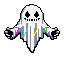
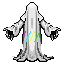
T-166 second pass built; gbasprite.py prefers a PNG over an old draft of the same name

diff --git a/tools/gbasprite.py b/tools/gbasprite.py
@@ -94,6 +94,9 @@ def rich_src(ours, kind):
     ours = GBA_NAME.get(ours, ours)
     hits = [f for f in glob.glob(os.path.join(ROOT, RICH, "%s_%s.*" % (ours.lower(), kind)))
             if not f.endswith(".txt")]
+    #  A cleaned drawing is a PNG; older drafts (PING's Gemini JPEGs) sit beside some. Glob order is not sorted, and
+    #  taking the first hit built PING from its old JPEG long after batch 2 redrew it (found by T-166).
+    hits.sort(key=lambda f: (not f.endswith(".png"), f))
     return hits[0] if hits else None
 
 def place_rich(path, type_rgb, shared=None):

diff --git a/docs/TODO.md b/docs/TODO.md
@@ -64,7 +64,7 @@ was one `git log -S` away.*
 
 | | what | where | from |
 |---|---|---|---|
-| **T-166** | **Every back view is checked to be a back** (*asked 2026-09-18*). **Several redrawn backs are front-like — the model turns a rear view to face the camera, or draws the same side view twice** — *flagged on the sheets so far: SENTRY, RAMROD, TRACER, STARR (following its concept), LATENCY, LULL, NOZZLE, STUB, HANDLER; and batch 12's COLDREAD, HAUNTPROC and TRACKER; batch 13's MULTICAST; batch 14's BLINDSPOT, WHIM, HUDDLE, FIXATION, SIMMER, OMEN and BRISTLE (side-on or facing); batch 15's VIGILANCE, GRASP, IMITATION, REPAY and ILLUSION.* ***The job***: **one contact sheet of every redrawn daemon's front beside its back, read by eye, and a list of the failures** — *then each failure redrawn with batch 7's rear wording ("seen from directly behind, no face visible, back of the head") and a face-and-eyes negative, several seeds, and rebuilt.* *A check a tool can make first: a back whose pixels correlate too closely with its own front (a mirrored or duplicated view) is suspect.* ***Closes when every back on the sheet reads as the creature from behind, and the list is empty.*** ***AUDITED AND A FIRST PASS DRAFTED 2026-09-19*** (*`gfx/drafts/t166/`*): **the audit (`audit_*.png`, `similarity.txt`) found 67 front-like backs, not the 25 listed** — *the symmetric daemons (CLUSTER, LOCUS, BEACON, PULSAR, the jellyfish, dragonflies, crabs) are right to match and are left alone.* **All 67 redrawn back-only, three seeds each (201 drafts); 21 are good rear views of the same creature (`picks.json`, `sheet.png`) — approved and BUILT 2026-09-19 (engine `c97d80a44`), 46 left for the second pass.** ***SECOND PASS DRAFTED 2026-09-19*** (*`second.py`, `picks2.json`, `sheet2.png`, awaiting approval*): **each described from its APPROVED front, fish, seahorses and serpents asked for a three-quarter rear view; 20 more are good** — *CHILLER, ENSEMBLE, FERRY, HAUNTPROC, INFERENCE, PING, PIPELINE, RAMROD, RESENTMENT, REVENANT, SENTINEL, SMOGSTACK, WISP, WILDFIRE, WHIM, BLINDSPOT, SEEDLING, SPAWN, FOSSILNET, GRIEVANCE.* **26 remain and are the hard core**: *the owls (COLDREAD, VIGILANCE), the seahorses (NOZZLE, JETSTREAM, TURBULENCE), most fish (BRISTLE, STUB, UPSTREAM), the deer (ILLUSION, STARR), the horses (HOTPATH, OVERDRIVE), and APATHY, BROADCAST, CRYOGEN, EMERGENCE, ESCALATE, FIXATION, GRASP, HANDLER, IMITATION, OMEN, REPAY, SIMMER, SINGULAR, AXIOMKICK* — **the model draws them facing, side-on or as a different creature however they are asked.** *The likely way through is image-to-image from the approved FRONT, mirrored, at a low denoise with a rear-view prompt — keeping the body and turning only the head away — or a hand edit that removes the face.* ***Why only 21, and what the second pass needs***: *the prompts reused each batch's FIRST description, not the redraw that was approved — so COLDREAD came back a woman, ENSEMBLE palm trees, HANDLER a blue duck, PIPELINE a humanoid. Fish, seahorses, ghosts and serpents also resist a rear view at all.* **Second pass: describe each from its APPROVED front (what is actually drawn), and for the fish and serpents accept a mirrored three-quarter view as the back, which is what the source games did.** *Six more cleaned badly and were dropped (CHILLER, INFERENCE, GRASP, REPAY, IMITATION, OMEN), and SENTINEL's new back still showed its eye.* | `gfx/daemons/*_back.png`, `tools/cleandraft.py`, `tools/contactsheet.py` | T-131 |
+| **T-166** | **Every back view is checked to be a back** (*asked 2026-09-18*). **Several redrawn backs are front-like — the model turns a rear view to face the camera, or draws the same side view twice** — *flagged on the sheets so far: SENTRY, RAMROD, TRACER, STARR (following its concept), LATENCY, LULL, NOZZLE, STUB, HANDLER; and batch 12's COLDREAD, HAUNTPROC and TRACKER; batch 13's MULTICAST; batch 14's BLINDSPOT, WHIM, HUDDLE, FIXATION, SIMMER, OMEN and BRISTLE (side-on or facing); batch 15's VIGILANCE, GRASP, IMITATION, REPAY and ILLUSION.* ***The job***: **one contact sheet of every redrawn daemon's front beside its back, read by eye, and a list of the failures** — *then each failure redrawn with batch 7's rear wording ("seen from directly behind, no face visible, back of the head") and a face-and-eyes negative, several seeds, and rebuilt.* *A check a tool can make first: a back whose pixels correlate too closely with its own front (a mirrored or duplicated view) is suspect.* ***Closes when every back on the sheet reads as the creature from behind, and the list is empty.*** ***AUDITED AND A FIRST PASS DRAFTED 2026-09-19*** (*`gfx/drafts/t166/`*): **the audit (`audit_*.png`, `similarity.txt`) found 67 front-like backs, not the 25 listed** — *the symmetric daemons (CLUSTER, LOCUS, BEACON, PULSAR, the jellyfish, dragonflies, crabs) are right to match and are left alone.* **All 67 redrawn back-only, three seeds each (201 drafts); 21 are good rear views of the same creature (`picks.json`, `sheet.png`) — approved and BUILT 2026-09-19 (engine `c97d80a44`), 46 left for the second pass.** ***SECOND PASS BUILT 2026-09-19*** (engine `1748b65c5`; *`second.py`, `picks2.json`, `sheet2.png`, approved; building it found PING's back had been made from its old Gemini JPEG since batch 2, because `gbasprite.py` took the first file its glob matched — it now prefers the PNG*): **each described from its APPROVED front, fish, seahorses and serpents asked for a three-quarter rear view; 20 more are good** — *CHILLER, ENSEMBLE, FERRY, HAUNTPROC, INFERENCE, PING, PIPELINE, RAMROD, RESENTMENT, REVENANT, SENTINEL, SMOGSTACK, WISP, WILDFIRE, WHIM, BLINDSPOT, SEEDLING, SPAWN, FOSSILNET, GRIEVANCE.* **26 remain and are the hard core**: *the owls (COLDREAD, VIGILANCE), the seahorses (NOZZLE, JETSTREAM, TURBULENCE), most fish (BRISTLE, STUB, UPSTREAM), the deer (ILLUSION, STARR), the horses (HOTPATH, OVERDRIVE), and APATHY, BROADCAST, CRYOGEN, EMERGENCE, ESCALATE, FIXATION, GRASP, HANDLER, IMITATION, OMEN, REPAY, SIMMER, SINGULAR, AXIOMKICK* — **the model draws them facing, side-on or as a different creature however they are asked.** *The likely way through is image-to-image from the approved FRONT, mirrored, at a low denoise with a rear-view prompt — keeping the body and turning only the head away — or a hand edit that removes the face.* ***Why only 21, and what the second pass needs***: *the prompts reused each batch's FIRST description, not the redraw that was approved — so COLDREAD came back a woman, ENSEMBLE palm trees, HANDLER a blue duck, PIPELINE a humanoid. Fish, seahorses, ghosts and serpents also resist a rear view at all.* **Second pass: describe each from its APPROVED front (what is actually drawn), and for the fish and serpents accept a mirrored three-quarter view as the back, which is what the source games did.** *Six more cleaned badly and were dropped (CHILLER, INFERENCE, GRASP, REPAY, IMITATION, OMEN), and SENTINEL's new back still showed its eye.* | `gfx/daemons/*_back.png`, `tools/cleandraft.py`, `tools/contactsheet.py` | T-131 |
 | **T-165** | **PIXELBYTE and SPRITEFORGE are daemons** (*asked 2026-09-18; PIXELBYTE was first noted under T-131*). **The two tools that drew this bestiary become two of its creatures** — *PIXELBYTE, the pixel-art model wrapped as a skill, and SPRITEFORGE, the tool that drives it.* ***The names are the user's and approved; everything else is open***: **which species slot each takes (a renamed vanilla species, or two of the unused slots), their type and line (a pair, or an evolution — a forge that makes the bytes), where the player meets them, and their Index entries** — *new in-game writing, so the wording is approved before it goes in, and craft rule 1 holds: the entry names the process, never the thesis.* **Drawn with the recipe they are named for.** ***SPRITEFORGE knows RECURSION*** (*decided by the user 2026-09-19*): **it is the thing that makes its own sprites** — *a forge that reads its own last output and builds on it.* ***A conflict to settle with it***: **RECURSION is S.T.A.R.R.'s signature (4.7; 5862's table), and the engine comment calls it "S.T.A.R.R.'s alone"** — *`sMovesForbiddenToCopy` only stops METRONOME, CLONE and IMPRINT from reaching it, so a second daemon learning it by level-up is mechanically fine; what changes is that the signature is shared, and 4.7 should say so, or say why SPRITEFORGE's is the same move understood differently.* | `src/data/text/species_names.h`, `src/data/pokemon/`, `gfx/daemons/` | T-131, 2.7 |
 | **T-164** | **Every overworld sprite and tile redrawn through the sprite server, in batches** (*asked 2026-09-18*). **The world art so far — buildings, ground, nature tiles, people, the player (T-52, T-61–T-85, T-105–T-129) — was generated in CODE by the `gba*`/`gen*` tools; the daemons are now drawn through ComfyUI on roverbyteseer (`spriteforge.py`, pixelbyte's model), and the world should be too.** ***The job, planned like T-131***: **a census of every overworld sheet and tileset (object events, trainer overworlds, primary and secondary tilesets, the ones already ours included), then batches in the order a player sees them, each drafted, on a contact sheet, approved, then built** — *tiles are a harder target than sprites: 8×8 cells, shared palettes per tileset, metatile layers and collision that must not move (T-125's zero-collision-change rule), and seams between tiles (engine.md trap 14).* ***Depends on T-133*** *for the daemon objects.* **First step: a trial on one building and one ground tileset, to learn whether the model can draw tileable 16×16 metatiles at all, before a plan is written.** | `graphics/object_events/`, `data/tilesets/`, `tools/spriteforge.py`, `tools/gbainterior.py` | T-131, T-133, T-125, 9.22, 9.23 |
 | ~~**T-163**~~ | ~~**MISSINGNO is an homage** (*decided by the user 2026-09-18*). **Its sprite is the original's backwards-L block of scrambled texture, but CODIFIED — made of green falling-matrix code** *rather than random tile garbage.* **It stands in `OLD_UNOWN_B` at level 80 and was left out of T-131's batches for this decision.** ***Open***: *whether the green is its type's colour or the one exception to 9.4 (a glitch that ignores the colour rule is itself an homage), its back view, and its Index entry (new writing, approved first).*~~ — ***Done 2026-09-19*** (engine `47b3c8aec`; `gfx/drafts/t163/`): **the backwards-L block, filled with columns of falling green code** — *generated by `make.py`, not drawn by the model, because it is code; fixed seeds (1996 front, 2026 back) so it rebuilds identically. Its own `graphics/pokemon/old_unown_b` and four table entries (it had shared the "??" placeholder with the other old-Unown slots). The body ramps to CORRUPT's mould and the greens stay accents, so the colour rule's one exception needed no exception. Index entry still vanilla's; new writing waits on approval.* | `graphics/pokemon/old_unown_b/`, `gfx/daemons/` | T-131, 9.4 |
